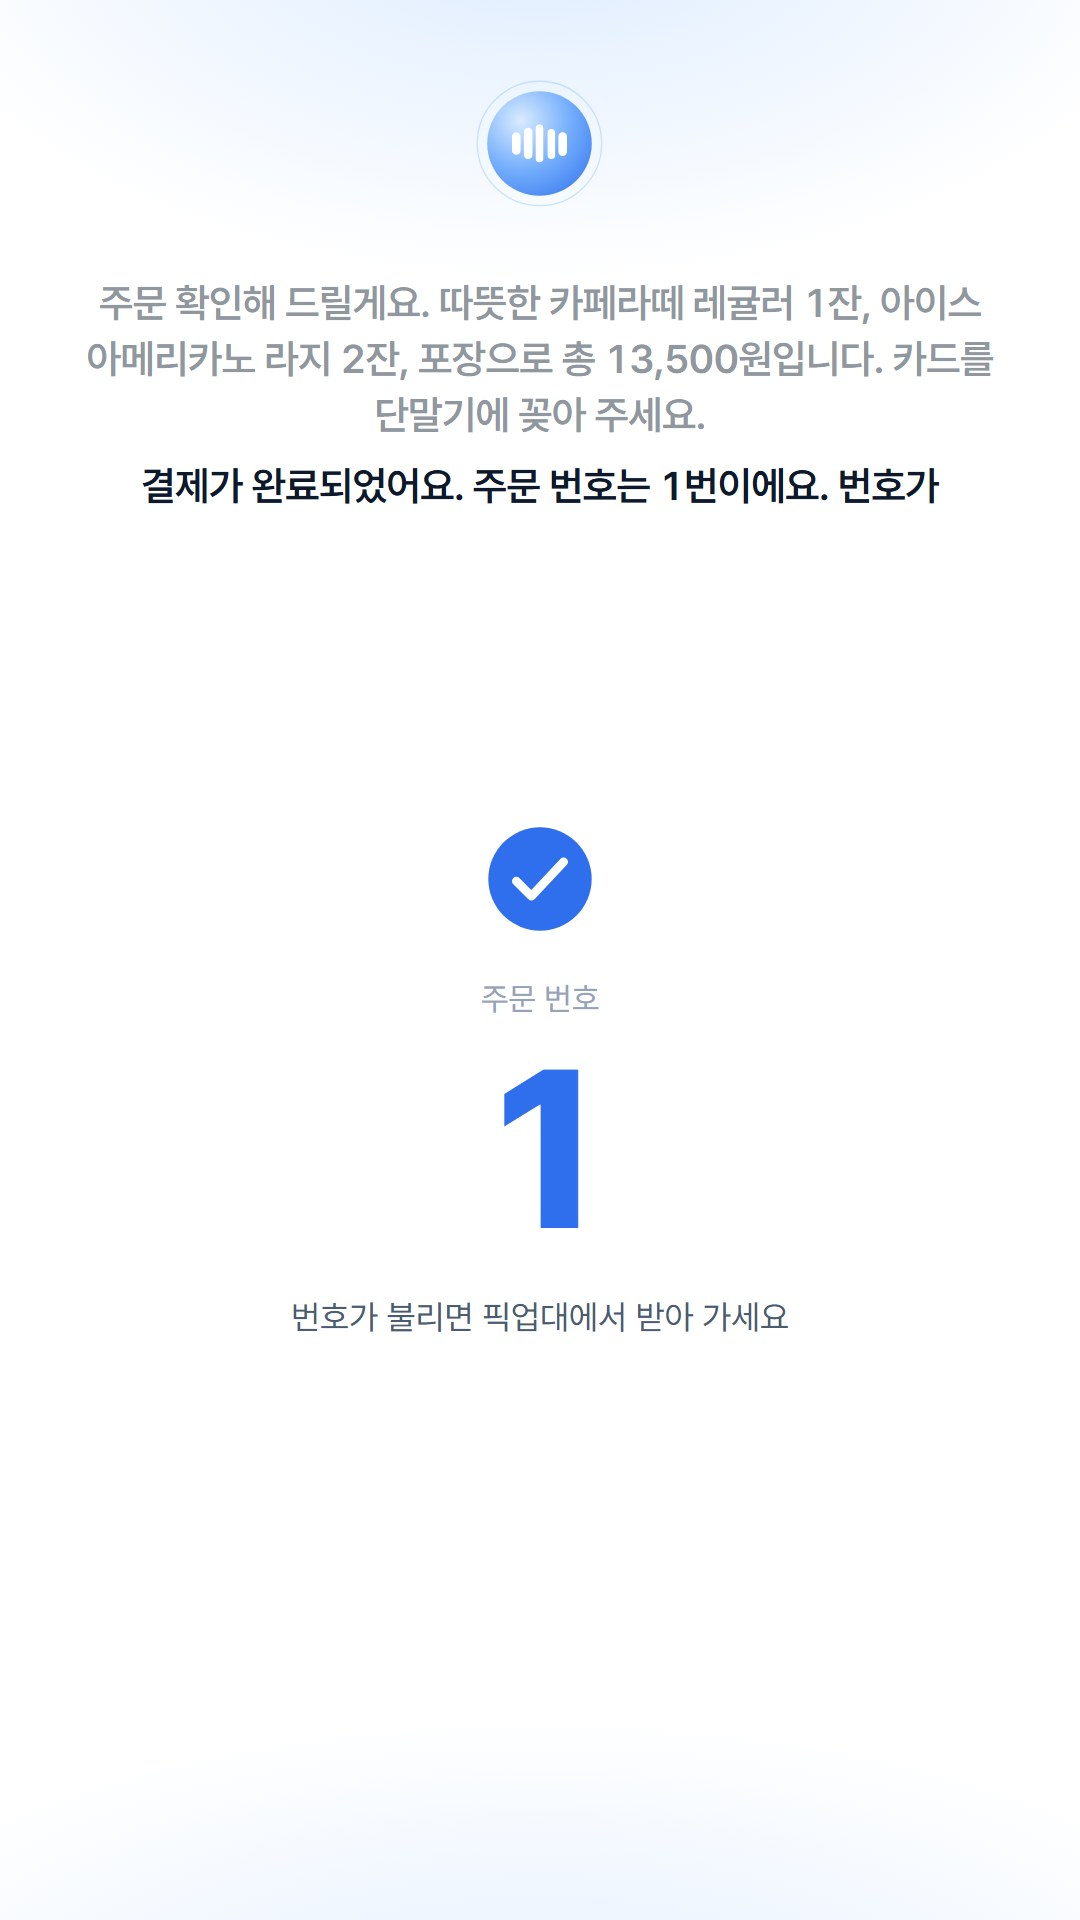
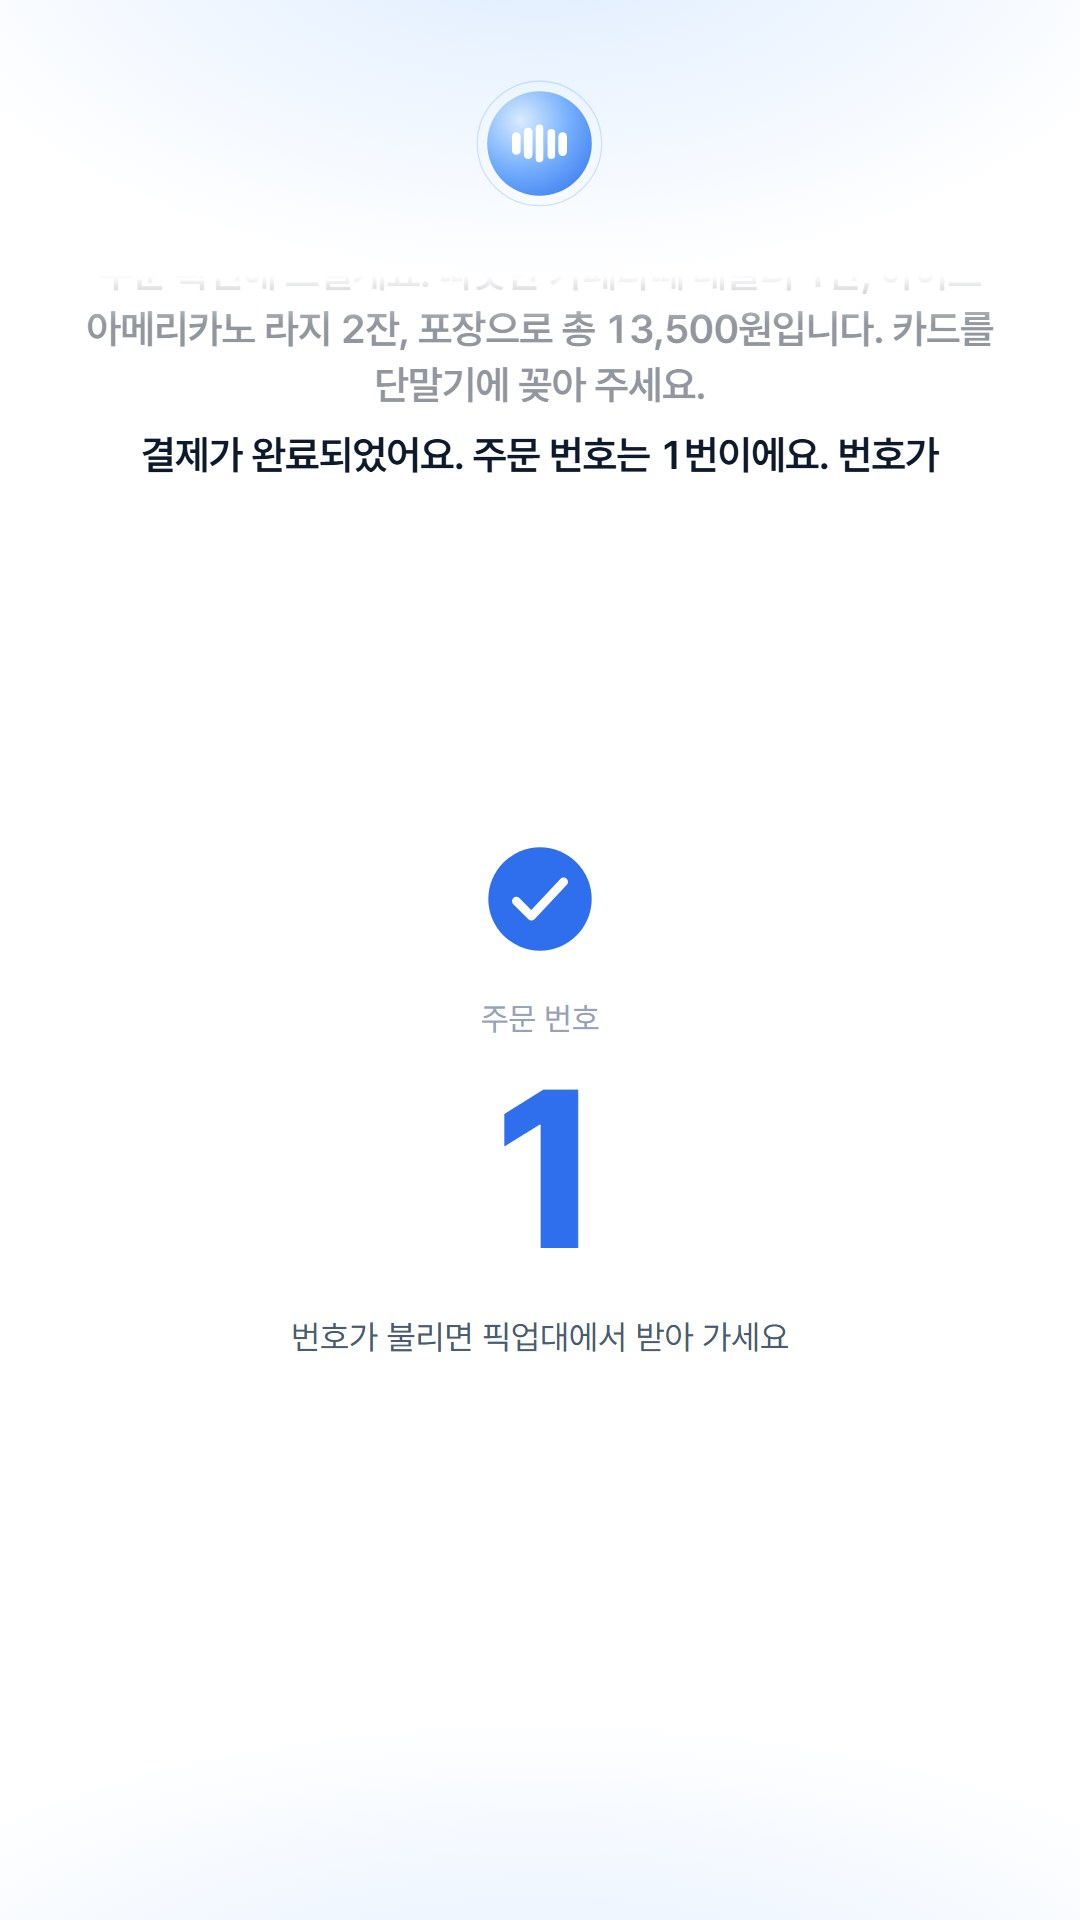
Give the conversation and the menu cards more room

Changed region(s): [[0.0611, 0.125, 0.9167, 0.2812], [0.275, 0.625, 0.7333, 0.7188], [0.4278, 0.4062, 0.55, 0.5938]]

diff --git a/frontend/src/lib/components/MenuGrid.svelte b/frontend/src/lib/components/MenuGrid.svelte
@@ -74,8 +74,9 @@
   }
   .grid {
     display: grid;
-    grid-template-columns: repeat(var(--columns), 1fr);
-    gap: 3rem 2.4rem;
+    grid-template-columns: repeat(var(--columns), minmax(0, 23rem));
+    justify-content: center;
+    gap: 3rem 2.6rem;
     align-content: start;
   }
   .card {

diff --git a/frontend/src/lib/components/Stage.svelte b/frontend/src/lib/components/Stage.svelte
@@ -216,7 +216,7 @@
 
   .content {
     position: absolute;
-    top: 30rem;
+    top: 32.5rem;
     bottom: 15rem;
     left: 4.5rem;
     right: 4.5rem;
